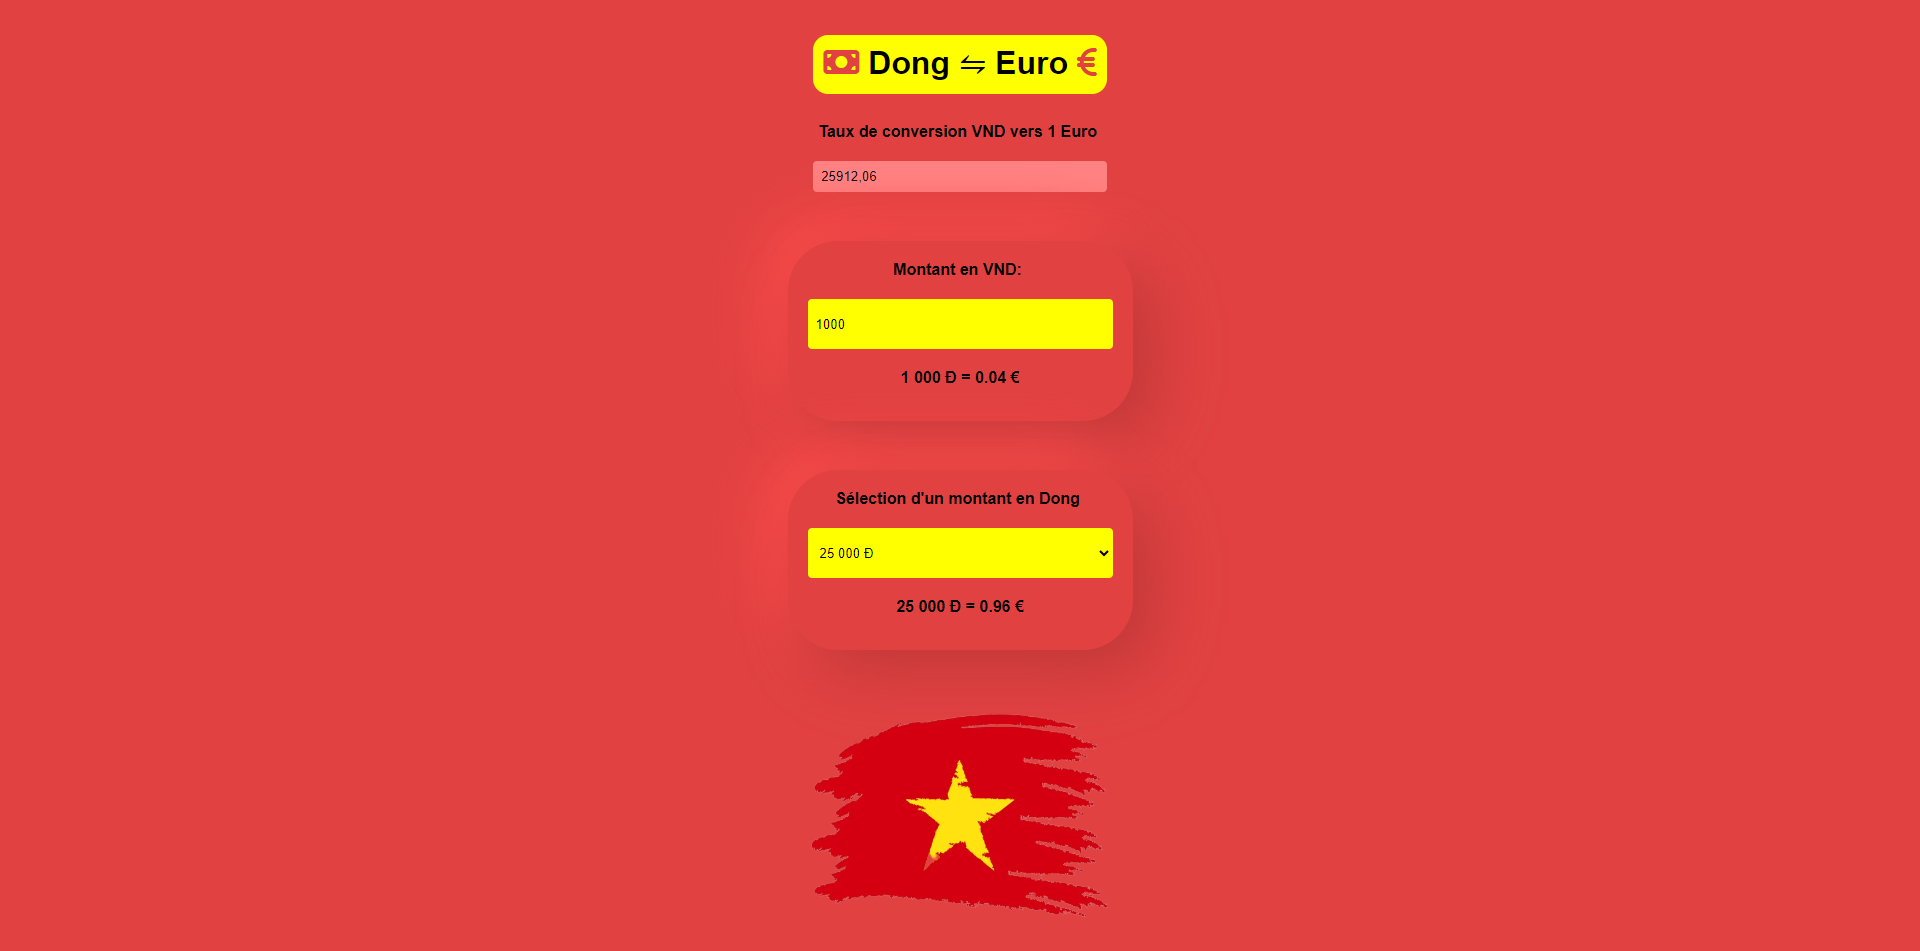
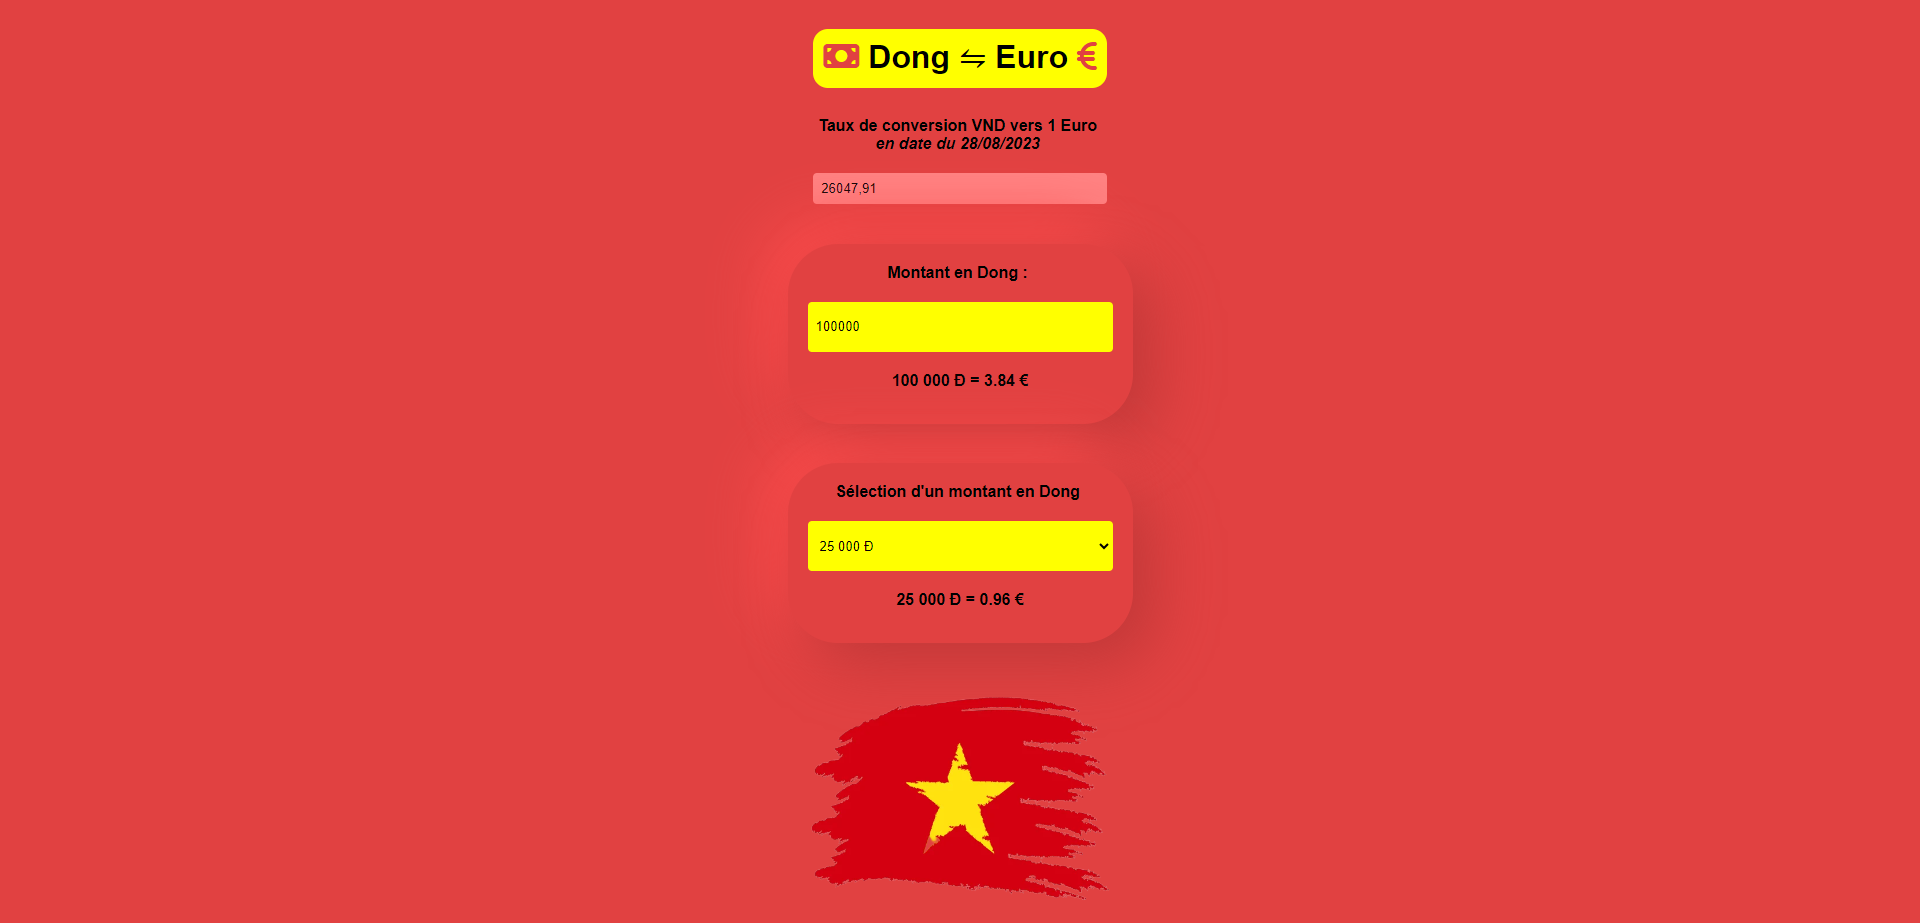
Last Adjust

diff --git a/index.html b/index.html
@@ -5,6 +5,9 @@
   <meta charset="UTF-8">
   <meta name="viewport" content="width=device-width, initial-scale=1.0">
   <link rel="icon" type="image/png" sizes="32x32" href="img/favicon/favicon-32x32.png">
+  <link rel="icon" type="image/png" sizes="150x150" href="img/favicon/mstile-150x150.png">
+  <link rel="icon" type="image/png" sizes="192x192" href="img/favicon/android-chrome-192x192.png">
+  <link rel="icon" type="image/png" sizes="512x512" href="img/favicon/android-chrome-512x512.png">
   <script src="https://kit.fontawesome.com/2b58de1911.js" crossorigin="anonymous"></script>
   <link rel="stylesheet" href="style.css">
   <title>Dong ⇋ Euro</title>
@@ -15,11 +18,12 @@
     <h1><i class="fas fa-money-bill"></i>
       Dong ⇋ Euro <i class="fas fa-euro-sign"></i>
     </h1>
-    <label for="conversionRate">Taux de conversion VND vers 1 Euro</label>
-    <input type="number" id="conversionRate" placeholder="Entrez le taux de conversion" value="25912.06">
+    <label for="conversionRate">Taux de conversion VND vers 1 Euro <br><em>en date du 28/08/2023</em></label>
+    <input type="number" id="conversionRate" placeholder="Entrez le taux de conversion" value="26047.91">
+   
   </header>
   <div class="converter">
-    <label for="vndAmount">Montant en VND:</label>
+    <label for="vndAmount">Montant en Dong :</label>
     <input type="number" id="vndAmount" placeholder="Entrez le montant en VND">
     <p class="converter__result" id="result"></p>
   </div>

diff --git a/style.css b/style.css
@@ -11,7 +11,7 @@ body {
   display: flex;
   justify-content: flex-start;
   align-items: center;
-  gap: 5.1vh;
+  gap: 4.1vh;
   min-height: 100vh;
   background: #e14141;
   flex-direction: column;
@@ -101,5 +101,14 @@ select {
 @media screen and (max-width: 305px) {
   .header i {
     display: none;
+  }
+}
+@media screen and (max-width: 399px) {
+  body {
+    gap: 7vh;
+  }
+  
+  .header h1 {
+    margin-top: 5px;
   }
 }

diff --git a/README.md b/README.md
@@ -16,4 +16,5 @@ Le Convertisseur Dong vers Euro est un outil simple qui vous permet de convertir
 
 **Avertissement :** Ce convertisseur est à des fins éducatives uniquement et ne garantit pas l'exactitude des taux de change utilisés. Les taux de change réels peuvent varier. Utilisez les résultats du convertisseur avec discernement et ne vous fiez pas uniquement à eux pour prendre des décisions financières.
 
-Merci d'utiliser le Convertisseur Dong vers Euro ! 
+ 
+[Merci d'utiliser le Convertisseur Dong vers Euro !](https://brival-m.github.io/DongToEuro/)
